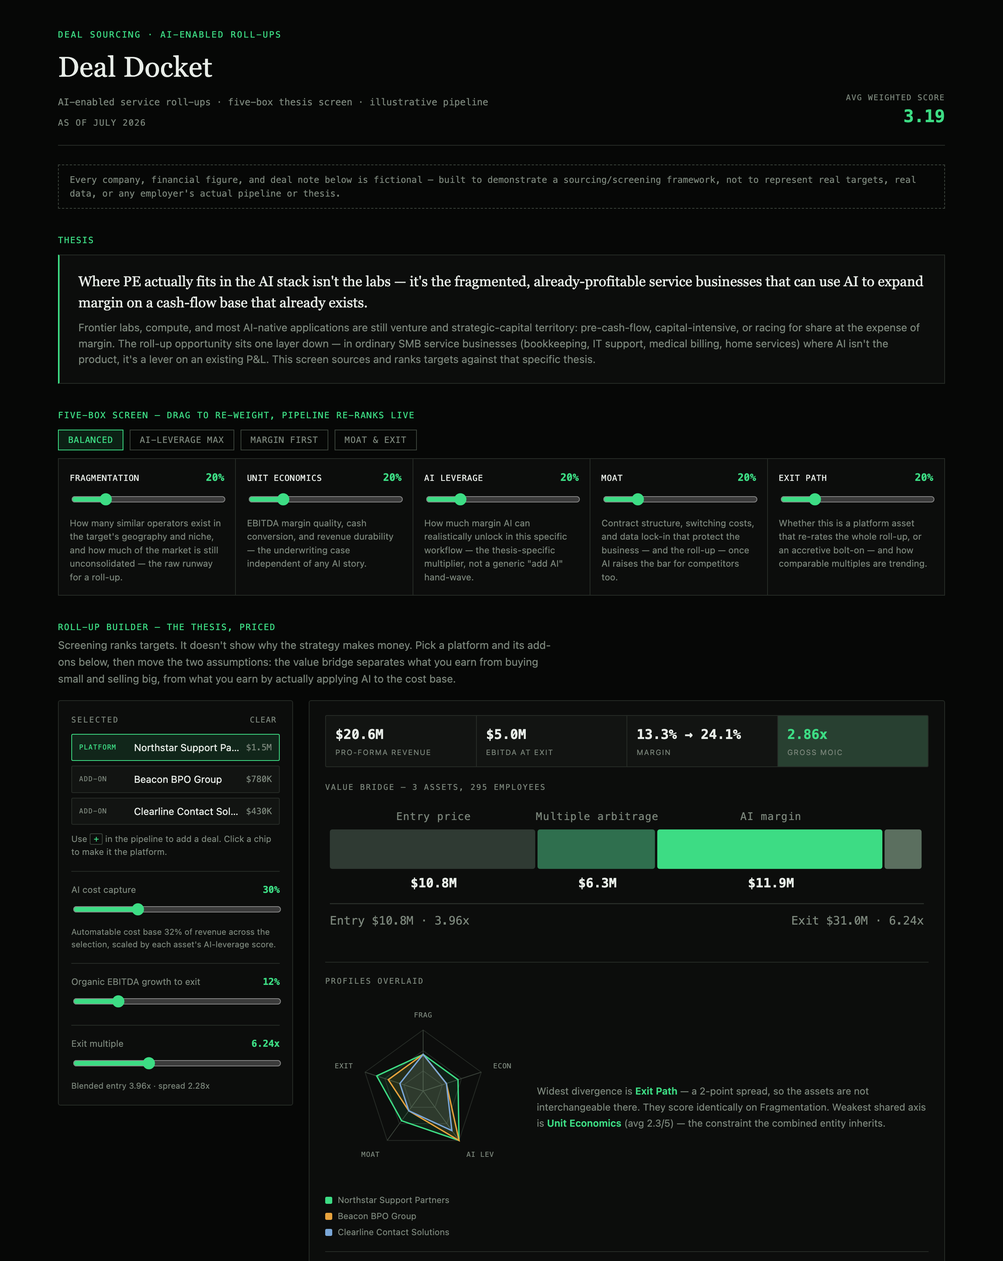
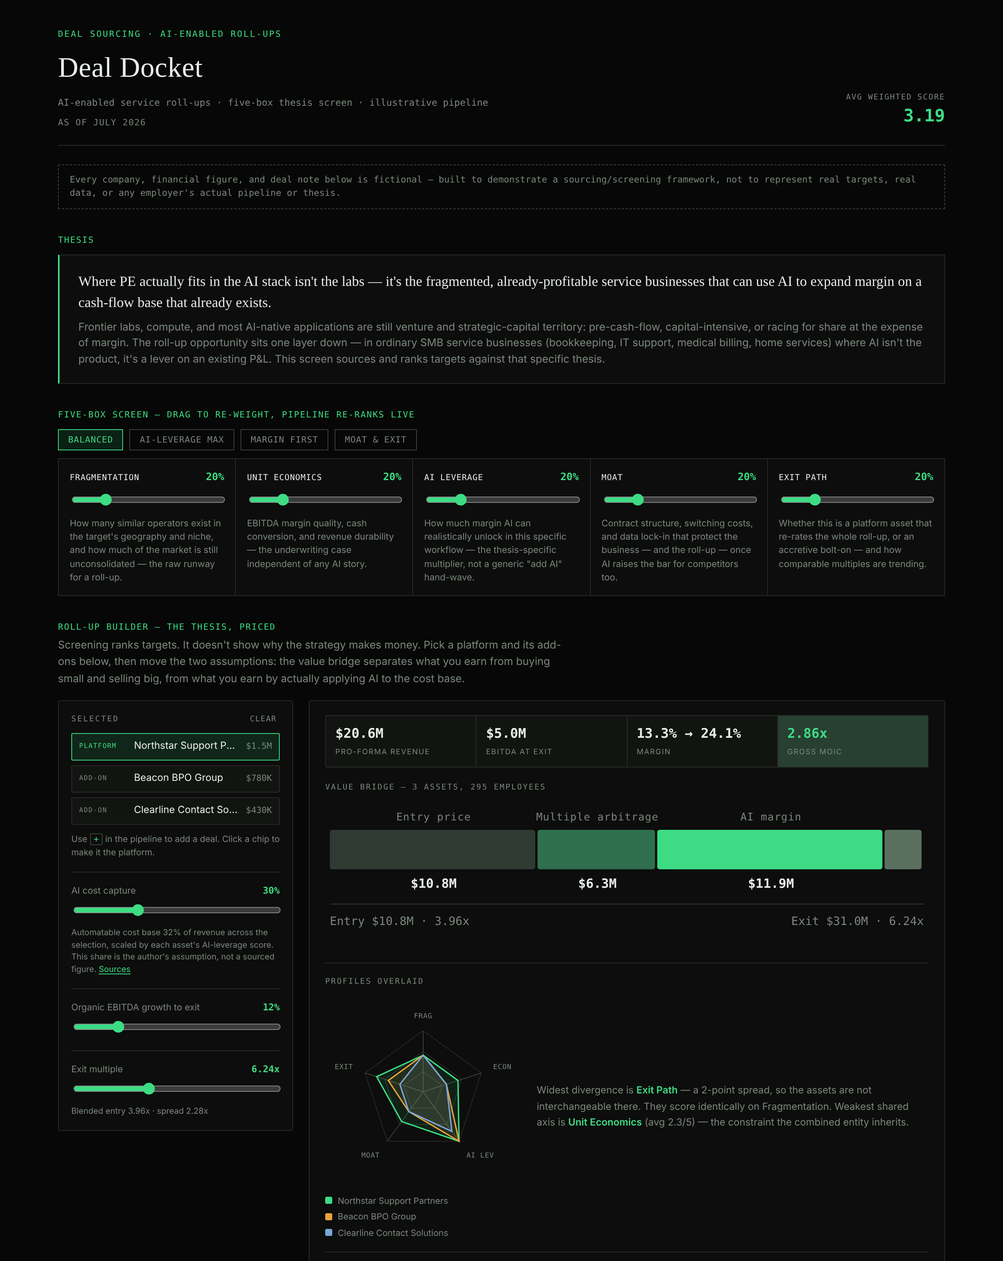
Source the automatable-cost shares; label the rest as assumptions
The roadmap's known soft spot: all ten per-vertical automatableCostShare
values were unsourced estimates. This is the first sourcing pass, done
for three verticals as the pattern the roadmap asked for.

Method: payroll / revenue (Census Service Annual Survey 2022, NAICS
4-digit) x the share of that payroll in LLM-exposed tasks (BLS OEWS
May 2025 industry staffing, weighted by Eloundou et al. exposure beta).

- Bookkeeping & Accounting 24 -> 22 (5412: 43.9% x 49.5%)
- IT Managed Services      18 -> 20 (5415: 40.2% x 50.5%)
- Legal Back-Office        26 -> 19 (5411: 37.7% x 49.1%)

The other seven keep their values but move from basis "estimate" to
"assumption", each with a note giving its sourced exposure half and
the payroll share the estimate implies (Logistics flagged as likely
high). The app now says which verticals are sourced and which are
assumptions, next to the capture slider and in each deal drawer.

SOURCES.md records every figure, series ID, URL, access date, caveat,
and how it was verified (gov sites were blocked from the build
sandbox). Firm counts are not added: CBP/SUSB could not be reached and
third-party re-quotes disagreed; the exact query is documented.

README screenshot regenerated because the roll-up panel text changed;
the default roll-up numbers are unchanged.

Claude-Session: https://claude.ai/code/session_013sTXc5q42FFdoAqzJqfHZk

diff --git a/app.js b/app.js
@@ -377,6 +377,21 @@ function trapTab(container, e) {
   }
 }
 
+function verticalBasisNote(vertical) {
+  const ctx = DATA.verticalContext[vertical];
+  const sourced = ctx.basis === "sourced";
+  const detail = sourced
+    ? `payroll is ${ctx.derivation.payrollShareOfRevenuePct}% of revenue (Census SAS 2022, NAICS ` +
+      `${ctx.derivation.naicsProxy.split(" ")[0]} as proxy) and ${ctx.derivation.exposedShareOfPayrollPct}% ` +
+      `of that payroll is in LLM-exposed tasks (BLS OEWS May 2025 × Eloundou et al.). Was ${ctx.derivation.priorEstimate}% as an estimate.`
+    : `<strong>author's assumption</strong>, not yet sourced. ${ctx.assumptionNote}`;
+  return `<div class="drawer-basis basis-${sourced ? "sourced" : "assumption"}">
+      <span class="drawer-basis-tag">${sourced ? "Sourced" : "Assumption"}</span>
+      Automatable cost for ${vertical}: <b>${ctx.automatableCostShare}%</b> of revenue — ${detail}
+      <a class="sources-link" href="${DATA.meta.sourcesUrl}" target="_blank" rel="noopener">Sources</a>
+    </div>`;
+}
+
 function openDrawer(deal, score, returnTo) {
   const drawer = document.getElementById("drawer");
   const overlay = document.getElementById("drawerOverlay");
@@ -416,6 +431,7 @@ function openDrawer(deal, score, returnTo) {
       <div><span class="drawer-fin-label">Weighted score</span><span class="drawer-fin-val">${score.toFixed(2)} / 5</span></div>
     </div>
     <div class="drawer-note"><strong>Thesis note:</strong> ${deal.thesisNote}</div>
+    ${verticalBasisNote(deal.vertical)}
 
     <h3 class="drawer-section-head">Rank stability</h3>
     <p class="stab-intro">Where this deal lands across <strong>2,000 random weightings</strong> of the five
@@ -897,9 +913,12 @@ function renderRollup() {
 
   const shares = r.sel.map((d) => DATA.verticalContext[d.vertical].automatableCostShare);
   const lo = Math.min(...shares), hi = Math.max(...shares);
-  document.getElementById("captureDesc").textContent =
+  const captureDesc = document.getElementById("captureDesc");
+  captureDesc.textContent =
     "Automatable cost base " + (lo === hi ? lo + "%" : lo + "–" + hi + "%") +
-    " of revenue across the selection, scaled by each asset's AI-leverage score.";
+    " of revenue across the selection, scaled by each asset's AI-leverage score. " +
+    basisSummary(r.sel) + " ";
+  captureDesc.appendChild(sourcesLink());
 
   const arbShare = (r.arbitrage / (r.exitValue - r.entryPrice)) * 100;
   const aiShare = (r.aiValue / (r.exitValue - r.entryPrice)) * 100;
@@ -935,6 +954,31 @@ function renderRollup() {
       the honest reason this structure is attractive.</p>
     </div>
   `;
+}
+
+/* The automatable-cost share is the model's least certain input, so the UI
+   says next to it which verticals are sourced and which are still the
+   author's assumption -- the data carries `basis` for exactly this. */
+function basisSummary(sel) {
+  const verticals = [...new Set(sel.map((d) => d.vertical))];
+  const sourced = verticals.filter((v) => DATA.verticalContext[v].basis === "sourced");
+  const assumed = verticals.filter((v) => DATA.verticalContext[v].basis !== "sourced");
+  if (!assumed.length) return "Sourced: Census payroll ÷ revenue × LLM task exposure.";
+  if (!sourced.length) {
+    return (assumed.length === 1 ? "This share is" : "These shares are") +
+      " the author's assumption, not a sourced figure.";
+  }
+  return "Sourced for " + sourced.join(", ") + "; author's assumption for " + assumed.join(", ") + ".";
+}
+
+function sourcesLink() {
+  const a = document.createElement("a");
+  a.href = DATA.meta.sourcesUrl;
+  a.target = "_blank";
+  a.rel = "noopener";
+  a.className = "sources-link";
+  a.textContent = "Sources";
+  return a;
 }
 
 function wireRollup() {

diff --git a/styles.css b/styles.css
@@ -554,6 +554,38 @@ h1 {
   background: var(--panel-2);
 }
 
+/* Which inputs are cited and which are the author's guess -- amber for the
+   latter, so an assumption never reads as a finding. */
+.drawer-basis {
+  font-size: 12px;
+  line-height: 1.55;
+  color: var(--text-dim);
+  border: 1px dashed var(--line-bright);
+  padding: 10px 12px;
+  margin: -8px 0 20px;
+}
+.drawer-basis b { color: var(--text); }
+.drawer-basis-tag {
+  display: inline-block;
+  font-family: var(--mono);
+  font-size: 10px;
+  letter-spacing: 0.08em;
+  text-transform: uppercase;
+  padding: 1px 6px;
+  margin-right: 6px;
+  border: 1px solid currentColor;
+}
+.basis-sourced .drawer-basis-tag { color: var(--green); }
+.basis-assumption .drawer-basis-tag,
+.basis-assumption strong { color: var(--amber); }
+
+.sources-link {
+  color: var(--green);
+  text-decoration: underline;
+  text-underline-offset: 2px;
+  white-space: nowrap;
+}
+
 .drawer-section-head {
   font-family: var(--mono);
   font-size: 11px;

diff --git a/SOURCES.md b/SOURCES.md
@@ -1,0 +1,115 @@
+# Sources: Deal Docket
+
+This file covers every figure in `data.json` that is meant to describe the real world, says where it comes from, and says how far it was checked. Deals, companies and financials are **fictional on purpose** (see the disclaimer in the app) and are not listed here.
+
+Sourcing pass: **15 October 2026**. All access dates below are that day.
+
+---
+
+## What was sourced, and what wasn't
+
+The only real-world input in the model is `verticalContext[*].automatableCostShare`: the share of a vertical's revenue that is cost AI could plausibly absorb. It drives the AI-margin line of the roll-up value bridge.
+
+| Vertical | Before | After | Basis | NAICS proxy |
+|---|---:|---:|---|---|
+| Bookkeeping & Accounting | 24% | **22%** | sourced | 5412 |
+| IT Managed Services | 18% | **20%** | sourced | 5415 |
+| Legal Back-Office | 26% | **19%** | sourced | 5411 |
+| Marketing & Creative Agencies | 15% | 15% | **assumption** | (5418) |
+| Home Services | 8% | 8% | **assumption** | (238220) |
+| Staffing & Recruiting | 16% | 16% | **assumption** | (5613) |
+| Medical Billing / RCM | 28% | 28% | **assumption** | (541219, inside 5412) |
+| Logistics & Dispatch | 13% | 13% | **assumption** | (4885) |
+| Customer Support / BPO | 32% | 32% | **assumption** | (5614 / 561422) |
+| Property Management | 15% | 15% | **assumption** | (531) |
+
+That's three verticals sourced, which is the pattern the roadmap asked for ("do three verticals fully, ship, then extend"). The other seven are labelled `"basis": "assumption"` in `data.json`, and the app says so in two places: next to the AI cost-capture slider in the roll-up builder, and in each deal's detail drawer.
+
+**Firm counts are not in the data yet.** `firmCount` is still a roadmap item. Census County Business Patterns (CBP) and Statistics of U.S. Businesses (SUSB) tables couldn't be reached from the build environment (see "How this was verified" below). Search results only turned up third-party aggregators re-quoting CBP, and they disagreed with each other. I didn't put an unverified count into the data. The exact query to run is under "Still open".
+
+---
+
+## Method for the sourced figures
+
+```
+automatableCostShare = (payroll ÷ revenue) × (share of payroll in LLM-exposed tasks)
+```
+
+1. **Payroll ÷ revenue** comes from the U.S. Census Bureau's *Service Annual Survey* (SAS), 2022 reference year, for all employer establishments in the NAICS 4-digit industry. This is the last SAS vintage. From 2023 the Annual Integrated Economic Survey replaces it.
+2. **Share of payroll in LLM-exposed tasks** takes the industry's national staffing pattern from BLS *Occupational Employment and Wage Statistics* (OEWS), May 2025: employment × mean annual wage for each detailed occupation. Each occupation's wage bill is then weighted by its GPT-exposure score (β) from Eloundou, Manning, Mishkin & Rock. β is the share of an occupation's tasks where an LLM, alone or with software built on it, can cut completion time by at least half. It counts direct exposure fully and tool-dependent exposure at one half. I used the paper's human-annotator β. O\*NET-SOC 8-digit codes were collapsed to 6-digit SOC using the `.00` code where one exists, and the mean of the sub-codes otherwise. Matched coverage is above 99% of each industry's detailed-occupation wage bill.
+
+### Figures
+
+| | 5412 Accounting, tax prep, bookkeeping, payroll | 5415 Computer systems design & related | 5411 Legal services |
+|---|---:|---:|---:|
+| Gross annual payroll, 2022 ($M) | 87,321 | 260,735 | 134,936 |
+| Revenue, 2022 ($M) | 198,869 | 648,805 | 357,681 ¹ |
+| **Payroll ÷ revenue** | **43.9%** | **40.2%** | **37.7%** |
+| Wage-weighted exposure β (human rating) | **49.5%** | **50.5%** | **49.1%** |
+| **Automatable cost share** | 21.7% → **22** | 20.3% → **20** | 18.5% → **19** |
+| Sensitivity: β from the GPT-4 rating instead | 24.9% | 26.7% | 18.2% |
+| Largest wage-bill occupations (OEWS May 2025) | Accountants & auditors 32%, financial managers 12%, bookkeeping clerks 5% | Software developers 24%, IT managers 9%, general/ops managers 5% | Lawyers 61%, paralegals 15%, legal secretaries 5% |
+
+¹ Legal services revenue is the SAS series for establishments *subject to federal income tax*. I couldn't retrieve an all-establishments total for 5411. Tax-exempt legal establishments, such as legal aid, are a small share, so the true ratio is slightly lower than 37.7%.
+
+### Caveats
+
+- **NAICS 4-digit is a proxy for each vertical, not a match.**
+  - 5415 is dominated by software development. A pure MSP has more support technicians, with β around 0.67 for computer user support specialists.
+  - 5411 is dominated by lawyers. A legal-support vendor has more paralegals and secretaries, with β of 0.45 and 0.76.
+  - 5412 is dominated by CPAs. A pure bookkeeping shop has more clerks, with β of 0.31.
+
+  So the sourced figure describes the industry the vertical sits in, not the niche itself.
+- **Payroll excludes benefits.** Employer fringe costs typically add around 20% to the labour bill, so the sourced shares lean conservative.
+- **Exposure is not realised saving.** β says a task's time could be roughly halved. It does not say the cost goes away. The roll-up's **AI cost capture** slider (default 30%) and each asset's AI-leverage score already model realisation, so they are not double-counted here.
+- **Years are mixed:** 2022 payroll and revenue, May 2025 staffing, and 2023–24 exposure scores. The ratio inputs move slowly. As a cross-check, OEWS May 2025 wage bills come out 5–16% above SAS 2022 payroll for the same industries (5412: $99.5B against $87.3B; 5415: $303.5B against $260.7B; 5411: $141.5B against $134.9B). That fits wage growth over the gap, so the two sources describe the same labour pool.
+- **Legal Back-Office moved the most**, from 26% to 19%. The old estimate assumed a support-staff-heavy mix. On the sourced industry mix, lawyers (β 0.48) carry most of the payroll.
+
+---
+
+## Sources
+
+1. **U.S. Census Bureau, Service Annual Survey, 2022 (employer firms, all establishments).** Accessed via FRED (Federal Reserve Bank of St. Louis), series last updated 31 January 2024.
+   - Gross Annual Payroll, Accounting, Tax Preparation, Bookkeeping, and Payroll Services: [`EXPGAPEF5412ALLEST`](https://fred.stlouisfed.org/series/EXPGAPEF5412ALLEST). 2022 = 87,321 $M.
+   - Revenue, Accounting, Tax Preparation, Bookkeeping, and Payroll Services: [`ATPBAPSRAEE45412`](https://fred.stlouisfed.org/series/ATPBAPSRAEE45412). 2022 = 198,869 $M.
+   - Gross Annual Payroll, Computer Systems Design and Related Services: [`EXPGAPEF5415ALLEST`](https://fred.stlouisfed.org/series/EXPGAPEF5415ALLEST). 2022 = 260,735 $M.
+   - Total Revenue, Computer Systems Design and Related Services: [`REVEF5415ALLEST`](https://fred.stlouisfed.org/series/REVEF5415ALLEST). 2022 = 648,805 $M.
+   - Gross Annual Payroll, Legal Services: [`EXPGAPEF5411ALLEST`](https://fred.stlouisfed.org/series/EXPGAPEF5411ALLEST). 2022 = 134,936 $M.
+   - Revenue, Legal Services, establishments subject to federal income tax: [`LSRESTFITEF45411`](https://fred.stlouisfed.org/series/LSRESTFITEF45411). 2022 = 357,681 $M.
+   - Programme page: <https://www.census.gov/programs-surveys/sas.html>
+2. **U.S. Bureau of Labor Statistics, Occupational Employment and Wage Statistics, May 2025, national industry-specific estimates** (released 15 May 2026). Industries 541100, 541200, 541500 (and, for the sanity checks below, 238220, 488500, 531000, 541800, 561300, 561400). Fields used: employment and annual mean wage by detailed SOC occupation. Source files: <https://download.bls.gov/pub/time.series/oe/> (`oe.data.0.Current`, `oe.industry`, `oe.occupation`). Tables: <https://www.bls.gov/oes/tables.htm>.
+3. **Eloundou, T., Manning, S., Mishkin, P. & Rock, D. (2024). "GPTs are GPTs: Labor market impact potential of LLMs." *Science* 384(6702), 1306–1308.** doi:[10.1126/science.adj0998](https://doi.org/10.1126/science.adj0998). Working paper arXiv:2303.10130 (2023). Occupation-level scores: `data/occ_level.csv`, columns `human_rating_beta` and `dv_rating_beta`, from <https://github.com/openai/GPTs-are-GPTs> at commit `0471612f`.
+
+### How this was verified
+
+The build sandbox blocks census.gov, bls.gov and fred.stlouisfed.org, so none of these were fetched directly. Here's what was done for each:
+
+- **SAS / FRED values.** Each of the six series values was retrieved through web-search results for the FRED series page in two separate queries, and both returned the same 2022 value along with the neighbouring years. They have **not** been checked against a downloaded FRED or Census file. Anyone with normal internet access can confirm them in about a minute from the series links above.
+- **OEWS May 2025.** I read the industry-specific data from the BLS `oe` time-series files as repackaged in the PyPI package [`bls-oews-mcp` 1.1.4](https://pypi.org/project/bls-oews-mcp/). Its manifest records the source URL, BLS `Last-Modified` date (15 May 2026) and SHA-256 hash of each BLS file. The bundled database matched its manifest hash (`b5e75974…cec52`). As a spot check, the all-occupations national annual mean wage in that data, $69,770, matches the BLS May 2025 release. This is a third-party repackaging, verified for internal consistency and one headline figure, not file-for-file against bls.gov.
+- **Eloundou et al.** I read the scores directly from the authors' public GitHub repository (`occ_level.csv`, SHA-256 `40c74f53…749acb`).
+
+---
+
+## The seven assumptions: what is and isn't known
+
+For these verticals the exposure half of the formula can be sourced, because OEWS covers each industry, but I couldn't retrieve a citable payroll-to-revenue ratio. Dividing the author's estimate by the sourced exposure gives the payroll share the estimate implicitly assumes. That's a plausibility check, not a source.
+
+| Vertical | Estimate | Proxy industry exposure β | Implied payroll ÷ revenue | Read |
+|---|---:|---:|---:|---|
+| Customer Support / BPO | 32% | 53.4% (5614) | ≈ 60% | Plausible for labour-heavy contact centres. SAS has 561422 revenue (2022: 22,618 $M, [`REVEF561422ALLEST`](https://fred.stlouisfed.org/series/REVEF561422ALLEST)) but no retrievable payroll series. |
+| Medical Billing / RCM | 28% | 49.5% (5412) | ≈ 57% | Billing offices sit in 541219, inside 5412. Applying the 5412 inputs would give 22%, but the 5412 staffing mix is CPA-heavy, so I didn't substitute it. |
+| Staffing & Recruiting | 16% | 34.4% (5613) | ≈ 47% | Revenue includes temp workers' pay, so a high payroll share is expected. Not cited. |
+| Marketing & Creative Agencies | 15% | 52.9% (5418) | ≈ 28% | SAS 2022 payroll for 5418 is 51,319 $M ([`EXPGAPEF5418ALLEST`](https://fred.stlouisfed.org/series/EXPGAPEF5418ALLEST)), but I couldn't retrieve a 4-digit total-revenue series to pair with it. |
+| Property Management | 15% | 37.8% (531) | ≈ 40% | OEWS only publishes 531 (all real estate), which is broader than property management. |
+| Logistics & Dispatch | 13% | 42.7% (4885) | ≈ 30% | **Probably high** for brokerage-style firms. 4885 revenue includes purchased transportation: SAS 2022 revenue is 252,417 $M ([`REVEF4885ALLEST`](https://fred.stlouisfed.org/series/REVEF4885ALLEST)) against an OEWS 2025 wage bill of about $17B. That rough, mixed-year check points to roughly 3–4%. It stays as labelled because the vertical also includes asset-based last-mile operators. |
+| Home Services | 8% | 21.0% (238220) | ≈ 38% | Technicians dominate payroll and have low exposure (plumbers β 0.06, HVAC 0.14). Construction is outside SAS, so the ratio needs the 2022 Economic Census. |
+
+---
+
+## Still open
+
+- **Payroll ÷ revenue for the seven assumed verticals.** These need the SAS 2022 series (`EXPGAPEF<naics>ALLEST`, `REVEF<naics>ALLEST`) or, for 238220, the 2022 Economic Census.
+- **Firm counts (`firmCount`).** The Census CBP 2023 national query is
+  `https://api.census.gov/data/2023/cbp?get=NAICS2017,NAICS2017_LABEL,ESTAB,EMP,PAYANN&for=us:*&NAICS2017=<code>`.
+  The codes are 541512/541513/541519, 5412, 541810, 238220, 5613, 541199, 541219, 488510, 561422 and 531311. SUSB 2022 (`us_state_6digitnaics_2022`) adds *firm*, not just establishment, counts.
+- **`marginRange` and `consolidationActivity`** from the roadmap have not been started.

diff --git a/ROADMAP.md b/ROADMAP.md
@@ -2,36 +2,36 @@
 
 What this tool doesn't do yet, why, and what it would take. Kept in the repo rather than in my head, because the decision *not* to build something is usually more interesting than a feature list.
 
-Status: **July 2026.** Forward-looking only — shipped work is in the [commit history](https://github.com/bakulbadwal/dealdocket/commits/main).
+Status: **October 2026.** Forward-looking only — shipped work is in the [commit history](https://github.com/bakulbadwal/dealdocket/commits/main).
 
 ---
 
-## The known soft spot: unsourced automatable-cost estimates
+## The known soft spot: automatable-cost estimates (partly sourced)
 
-**This is the honest weakness in the current build, and it's deliberate.**
+The roll-up builder's AI margin uplift is driven by a per-vertical `automatableCostShare`, the share of revenue that is cost AI could plausibly absorb. Until October 2026 all ten values were my estimates, tagged `"basis": "estimate"` with no source.
 
-The roll-up builder's AI margin uplift is driven by a per-vertical `automatableCostShare` — the share of revenue representing cost that AI could plausibly absorb. Bookkeeping is set at 24%, home services at 8%, customer support at 32%, and so on.
+**Sourcing pass 1 (October 2026): done for three verticals, as the pattern.** See [SOURCES.md](./SOURCES.md) for every figure, its source and how it was checked.
 
-**Those numbers are my estimates, not researched figures.** Each is tagged `"basis": "estimate"` in `data.json` with `source: null` and `asOf: null`, so the data never pretends otherwise. Being transparent about the model's weakest input is the minimum bar — it isn't the same as being right.
+- [x] **Method fixed**: payroll ÷ revenue (Census Service Annual Survey 2022) × share of that payroll in LLM-exposed tasks (BLS OEWS May 2025 staffing × Eloundou et al. exposure scores).
+- [x] **Bookkeeping & Accounting** 24% → **22%** (NAICS 5412).
+- [x] **IT Managed Services** 18% → **20%** (NAICS 5415).
+- [x] **Legal Back-Office** 26% → **19%** (NAICS 5411). This is the biggest correction: the sourced industry payroll is lawyer-heavy, not support-heavy.
+- [x] **The other seven are relabelled `"basis": "assumption"`**, and the UI says so next to the capture slider and in each deal drawer. SOURCES.md records each one's sourced exposure half and the payroll share it implies. Logistics (13%) is flagged as probably high.
+- [ ] Payroll ÷ revenue for the remaining seven. The SAS series exist for most; Home Services (238220) needs the 2022 Economic Census.
+- [ ] Tighter proxies. NAICS 4-digit staffing is a proxy for each niche (e.g. 5415 is software-developer-heavy, while an MSP is support-technician-heavy). The 6-digit OEWS or SUSB cuts would sharpen this.
 
 ### What "done" looks like
 
-Replace each estimate with a sourced, dated figure and flip `basis` to `"sourced"`:
+| Field | Status | What it needs |
+|---|---|---|
+| `automatableCostShare` | **3 of 10 sourced** | The same decomposition for the other seven verticals, cited, with an `asOf` date |
+| `firmCount` / fragmentation | Not started | US establishment and firm counts from Census CBP 2023 / SUSB 2022. The exact API query is in SOURCES.md. Census was unreachable from the build environment, and I didn't add third-party re-quotes. |
+| `marginRange` | Not started | Observed EBITDA margin bands for the vertical, not assumed |
+| `consolidationActivity` | Not started | Actual sponsor platform/add-on activity: evidence the roll-up is already happening, or isn't |
 
-| Field | What it needs |
-|---|---|
-| `automatableCostShare` | A defensible labour-cost decomposition per vertical, cited, with an `asOf` date |
-| `firmCount` / fragmentation | US establishment counts — Census County Business Patterns is the obvious spine |
-| `marginRange` | Observed EBITDA margin bands for the vertical, not assumed |
-| `consolidationActivity` | Actual sponsor platform/add-on activity — evidence the roll-up is already happening, or isn't |
+### Why the rest is deferred rather than dropped
 
-Ten verticals × four fields, each cited. That's research, not a coding task, which is exactly why it hasn't happened in a build session.
-
-### Why it's deferred rather than dropped
-
-The estimates are directionally defensible and the model is explicit about them. Sourcing them properly would make the tool's central claim *evidentiary* rather than *illustrative* — a real upgrade — but it doesn't change the architecture, and the value bridge is arithmetically sound regardless of which numbers go in. Correctness of structure first; correctness of inputs second.
-
-**First step if picked up:** do three verticals fully as the pattern, ship, then extend. Don't attempt ten in one sitting.
+The value bridge is arithmetically sound whatever numbers go in, and the model now labels which inputs are evidence and which are mine. Sourcing the rest would make the tool's central claim *evidentiary* rather than *illustrative* across the board. It doesn't change the architecture.
 
 ### The unlock it enables
 

diff --git a/README.md b/README.md
@@ -37,13 +37,19 @@ The visual language is deliberately terminal-inspired — monospace numerals, ha
 ## Reading further
 
 - **[CASE_STUDY.md](./CASE_STUDY.md)** — the product write-up: the problem being modelled, who it's for, the decisions and tradeoffs, and how I'd measure whether it works.
-- **[ROADMAP.md](./ROADMAP.md)** — what this doesn't do yet and why, including the honest weak spot (the automatable-cost estimates driving the AI uplift are mine, not researched — and are tagged as such in the data), plus what's deliberately *not* being built.
+- **[SOURCES.md](./SOURCES.md)** — where every real-world figure comes from, how it was checked, and which ones are still my assumptions.
+- **[ROADMAP.md](./ROADMAP.md)** — what this doesn't do yet and why, including the honest weak spot (3 of the 10 automatable-cost shares driving the AI uplift are now sourced; the other 7 are still my assumptions and labelled as such), plus what's deliberately *not* being built.
 
 ## A note on the numbers
 
 Financials are stored as numbers, not display strings, so every figure on the page is computed rather than written down. Entry multiples are a deterministic function of deal size and the moat/exit-path scores — reproducible, not random. The margin is derived from revenue and EBITDA at render time so it cannot drift out of sync with them.
 
-The one input that is *not* derived is `automatableCostShare` per vertical, which drives the AI uplift. Those are estimates, marked `"basis": "estimate"` in `data.json` with a null source. See the roadmap.
+The one real-world input is `automatableCostShare` per vertical, which drives the AI uplift. Where sourced, it is computed as payroll ÷ revenue × the share of that payroll in LLM-exposed tasks.
+
+- **Sourced (3 of 10):** Bookkeeping & Accounting (22%), IT Managed Services (20%) and Legal Back-Office (19%). These use Census Service Annual Survey 2022 payroll and revenue, BLS OEWS May 2025 staffing patterns, and the Eloundou et al. (*Science*, 2024) exposure scores. Each is marked `"basis": "sourced"` in `data.json`, with its derivation.
+- **Assumptions (7 of 10):** the other verticals are still my estimates, marked `"basis": "assumption"`. The app labels them as assumptions next to the capture slider and in the deal drawer, so they never read as findings.
+
+See [SOURCES.md](./SOURCES.md) for every figure, the caveats, and how it was verified.
 
 ## Architecture
 
